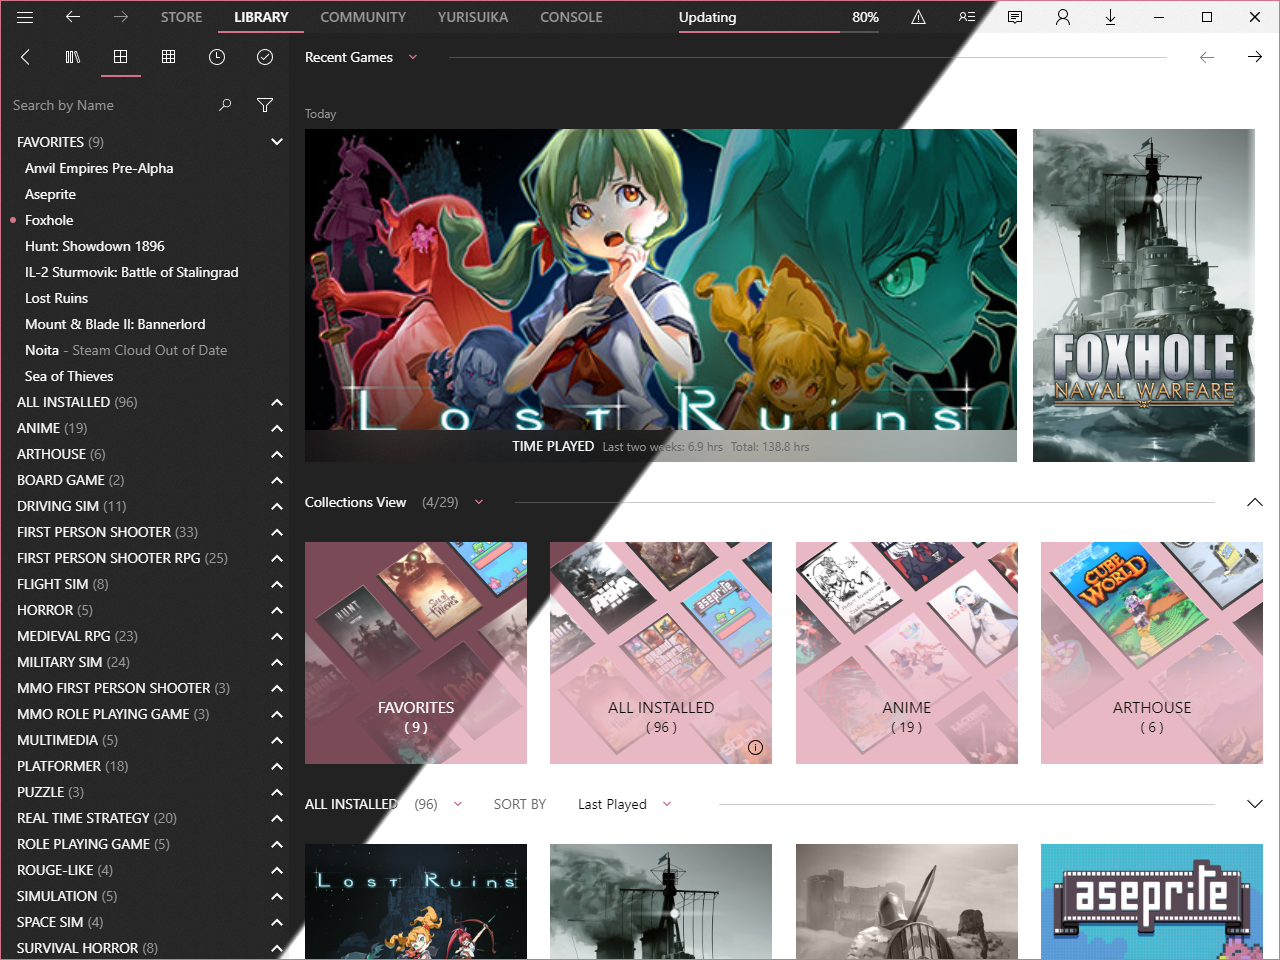
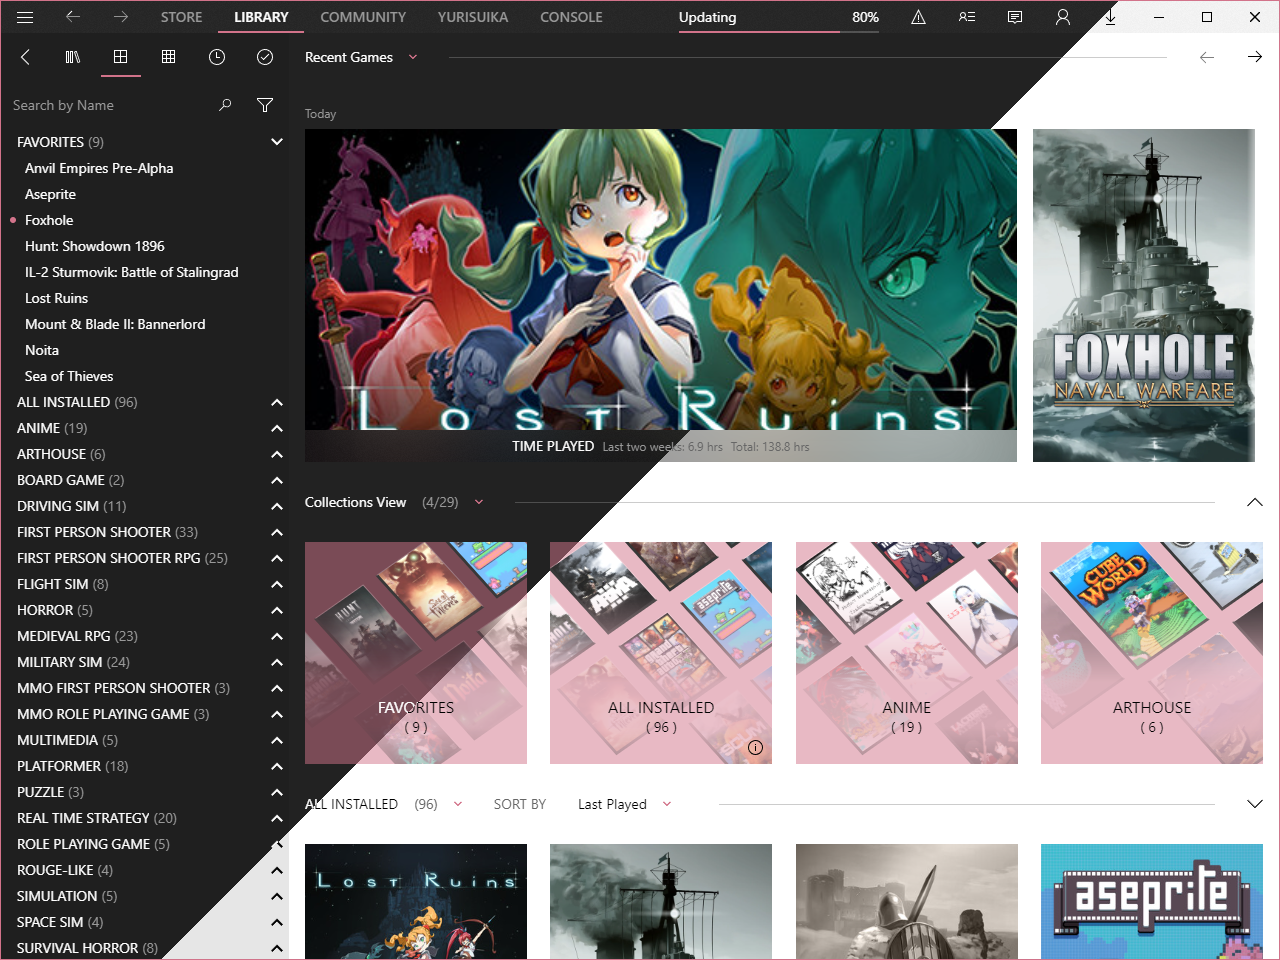
unified navbar background with sticky playbar + remove acyrlic from sidebar + what's new improvements

diff --git a/css/library/library.css b/css/library/library.css
@@ -102,6 +102,7 @@
 
 .B-vCdL38RiJlhfSRgZv78._278jFDApipeB4kFsi44_F5:hover ._3Rb_j3lgHaVVIud4Gla7_m, .gpfocus > .B-vCdL38RiJlhfSRgZv78._278jFDApipeB4kFsi44_F5 ._3Rb_j3lgHaVVIud4Gla7_m {
   background-color: rgba(var(--color-accent), 0.5) !important;
+  /* backdrop-filter: blur(var(--option-blur-radius)) !important; */
 }
 
 .B-vCdL38RiJlhfSRgZv78._278jFDApipeB4kFsi44_F5:hover ._3Rb_j3lgHaVVIud4Gla7_m ._1vIlyxb5BAwKPUkOfO94qZ, .gpfocus > .B-vCdL38RiJlhfSRgZv78._278jFDApipeB4kFsi44_F5 ._3Rb_j3lgHaVVIud4Gla7_m ._1vIlyxb5BAwKPUkOfO94qZ {
@@ -114,6 +115,11 @@
   color: rgb(var(--color-text-primary)) !important;
   font-size: var(--size-14) !important;
   font-weight: 400 !important;
+}
+
+.B-vCdL38RiJlhfSRgZv78._278jFDApipeB4kFsi44_F5:hover ._1-W_ZQ4XyImc86SJFamGha, .gpfocus>.B-vCdL38RiJlhfSRgZv78._278jFDApipeB4kFsi44_F5 ._1-W_ZQ4XyImc86SJFamGha {
+  transform: scale(1.05) !important;
+  filter: blur(5px) brightness(1) !important;
 }
 
 ._3_xMyCJAh_Dv99KgZ54P3j {
@@ -209,6 +215,25 @@
   text-align: center !important;
 }
 
+.B-vCdL38RiJlhfSRgZv78 ._3Rb_j3lgHaVVIud4Gla7_m, .B-vCdL38RiJlhfSRgZv78._278jFDApipeB4kFsi44_F5 {
+  transition: background-color 0.2s ease-in-out, filter 0.2 ease-in-out !important;
+}
+
+.B-vCdL38RiJlhfSRgZv78 ._1-W_ZQ4XyImc86SJFamGha {
+  transition: transform 0.2s ease-out, filter 0.2s ease-out !important;
+}
+
+.B-vCdL38RiJlhfSRgZv78 ._1vIlyxb5BAwKPUkOfO94qZ {
+  margin: 16px 16px 0px 16px !important;
+  transition: transform 0.2s ease-out, filter 0.2s ease-out !important;
+}
+
+.B-vCdL38RiJlhfSRgZv78 ._3XsLynGyI82XQfWQ8FBuOT {
+  margin: 16px !important;
+  line-height: 20px !important;
+  transition: transform 0.2s ease-out, filter 0.2s ease-out !important;
+}
+
 /* WHAT'S NEW EVENT OPTIONS BUTTON */
 ._2-p7shAZYrRijpaTU9bAFR {
   padding: 0px !important;
@@ -264,7 +289,7 @@
   background-size: 16px !important;
   background-repeat: no-repeat !important;
   background-position: center !important;
-  background-image: var(--icon-settings) !important;
+  background-image: var(--icon-more) !important;
 }
 
 ._1eFe5VbyACJE4RVGpOWKMC svg * {
@@ -296,11 +321,11 @@
   filter: var(--filter-focus) !important;
 }
 
-._23SnllqT_AqZ1C_QHcNQ4Z .bsNegRKT1Hbv4tqHrOk9- ._14b-hQsLwSwYcELtknxCUX:not(._16nHYucq6xgfe67DrVWLCI):hover, ._23SnllqT_AqZ1C_QHcNQ4Z .bsNegRKT1Hbv4tqHrOk9- ._3IIEUTw03Vm3Mk54jlnUaT:not(._16nHYucq6xgfe67DrVWLCI):hover {
+._17uEBe5Ri8TMsnfELvs8-N .bsNegRKT1Hbv4tqHrOk9- ._14b-hQsLwSwYcELtknxCUX:not(._16nHYucq6xgfe67DrVWLCI):hover, ._17uEBe5Ri8TMsnfELvs8-N .bsNegRKT1Hbv4tqHrOk9- ._3IIEUTw03Vm3Mk54jlnUaT:not(._16nHYucq6xgfe67DrVWLCI):hover {
   background-color: var(--option-reveal-background-hover) !important;
 }
 
-._23SnllqT_AqZ1C_QHcNQ4Z .bsNegRKT1Hbv4tqHrOk9- ._14b-hQsLwSwYcELtknxCUX:not(._16nHYucq6xgfe67DrVWLCI):active, ._23SnllqT_AqZ1C_QHcNQ4Z .bsNegRKT1Hbv4tqHrOk9- ._3IIEUTw03Vm3Mk54jlnUaT:not(._16nHYucq6xgfe67DrVWLCI):active {
+._17uEBe5Ri8TMsnfELvs8-N .bsNegRKT1Hbv4tqHrOk9- ._14b-hQsLwSwYcELtknxCUX:not(._16nHYucq6xgfe67DrVWLCI):active, ._17uEBe5Ri8TMsnfELvs8-N .bsNegRKT1Hbv4tqHrOk9- ._3IIEUTw03Vm3Mk54jlnUaT:not(._16nHYucq6xgfe67DrVWLCI):active {
   background-color: var(--option-reveal-background-active) !important;
 }
 

diff --git a/css/library/game.css b/css/library/game.css
@@ -204,11 +204,17 @@
   top: 32px !important;
 }
 
-._3Yf8b2v5oOD8Wqsxu04ar, .WindowFocus ._3Yf8b2v5oOD8Wqsxu04ar._39RheXihcN6H2k2muQTjkI {
-  background-color: var(--color-acrylic-overlay-medium) !important;
+._3Yf8b2v5oOD8Wqsxu04ar {
+  background-color: var(--color-acrylic-focus-window) !important;
   backdrop-filter: blur(var(--option-blur-radius)) !important;
   background-blend-mode: exclusion !important;
   background-image: var(--image-acrylic) !important;
+  z-index: 999 !important;
+}
+
+.WindowFocus ._3Yf8b2v5oOD8Wqsxu04ar._39RheXihcN6H2k2muQTjkI {
+  background: transparent !important;
+  backdrop-filter: none !important;
   z-index: 999 !important;
 }
 
@@ -229,6 +235,10 @@
   opacity: 1 !important;
   background-image: var(--image-acrylic) !important;
   transition: opacity 0.2s ease-in-out !important;
+}
+
+._3Yf8b2v5oOD8Wqsxu04ar._39RheXihcN6H2k2muQTjkI::after {
+  background: transparent !important;
 }
 
 ._3Yf8b2v5oOD8Wqsxu04ar._39RheXihcN6H2k2muQTjkI::after {
@@ -1190,9 +1200,9 @@ button.DialogButton._1qG6xUlNu-qvdhpSxwed5:active {
 }
 
 .WindowFocus ._27RcNu8aXKBpYkHcNNrt-X ._11kuVRYZvWXn-3rBJ_6yL8 > div {
-  background: var(--color-acrylic-focus-window) !important;
-  backdrop-filter: blur(var(--option-blur-radius)) !important;
-  background-blend-mode: exclusion !important;
+  /* background: var(--color-acrylic-focus-window) !important; */
+  /* backdrop-filter: blur(var(--option-blur-radius)) !important; */
+  /* background-blend-mode: exclusion !important; */
 }
 
 ._27RcNu8aXKBpYkHcNNrt-X ._11kuVRYZvWXn-3rBJ_6yL8 > div::after {
@@ -1204,7 +1214,7 @@ button.DialogButton._1qG6xUlNu-qvdhpSxwed5:active {
   left: 0 !important;
   right: 0 !important;
   opacity: 0 !important;
-  background-image: var(--image-acrylic) !important;
+  /* background-image: var(--image-acrylic) !important; */
   transition: opacity 0.2s ease-in-out !important;
 }
 
@@ -1636,9 +1646,9 @@ button.DialogButton._1qG6xUlNu-qvdhpSxwed5:active {
 }
 
 .WindowFocus ._2r4TK4BAuU-J4FuF_O7v_5._3-V8vjmrwuJM6Ws3tsjFJj {
-  background: var(--color-acrylic-focus-window) !important;
+  /* background: var(--color-acrylic-focus-window) !important; */
   /* backdrop-filter: blur(var(--option-blur-radius)) !important; */
-  background-blend-mode: exclusion !important;
+  /* background-blend-mode: exclusion !important; */
 }
 
 ._2r4TK4BAuU-J4FuF_O7v_5._3-V8vjmrwuJM6Ws3tsjFJj::after {
@@ -1650,7 +1660,7 @@ button.DialogButton._1qG6xUlNu-qvdhpSxwed5:active {
   left: 0 !important;
   right: 0 !important;
   opacity: 0 !important;
-  background-image: var(--image-acrylic) !important;
+  /* background-image: var(--image-acrylic) !important; */
   transition: opacity 0.2s ease-in-out !important;
 }
 

diff --git a/css/library/sidebar.css b/css/library/sidebar.css
@@ -89,27 +89,27 @@
 }
 
 /* GAMES LIST CONTAINER */
-._3x1HklzyDs4TEjACrRO2tB {
-  background-image: url() !important;
-  background-color: transparent !important;
-  background: transparent !important;
-}
-
 ._9sPoVBFyE_vE87mnZJ5aB {
-  background: var(--color-acrylic) !important;
-  transition: background 0.2s ease-in-out, backdrop-filter 0.2s ease-in-out, width 0.2s ease-in-out, min-width 0.2s ease-in-out, max-width 0.2s ease-in-out, visibility 0.2s ease-in-out !important;
+  /* background: rgb(var(--color-background-window)) !important; */
+  background: transparent !important;
   max-width: calc(max(50%, 100% - (48px * 6))) !important;
   min-width: calc(48px * 6) !important;
   z-index: 999 !important;
 }
 
-.WindowFocus ._9sPoVBFyE_vE87mnZJ5aB {
-  background-color: var(--color-acrylic-focus-window) !important;
+._3x1HklzyDs4TEjACrRO2tB {
+  /* background: var(--color-acrylic) !important; */
+  background: transparent !important;
+  transition: background 0.2s ease-in-out, backdrop-filter 0.2s ease-in-out, width 0.2s ease-in-out, min-width 0.2s ease-in-out, max-width 0.2s ease-in-out, visibility 0.2s ease-in-out !important;
+}
+
+.WindowFocus ._3x1HklzyDs4TEjACrRO2tB {
+  /* background-color: var(--color-acrylic-focus-window) !important; */
   /* backdrop-filter: blur(var(--option-blur-radius)) !important; */
   background-blend-mode: exclusion !important;
 }
 
-._9sPoVBFyE_vE87mnZJ5aB::after {
+._3x1HklzyDs4TEjACrRO2tB::after {
   content: "" !important;
   z-index: -1 !important;
   position: absolute !important;
@@ -118,17 +118,25 @@
   left: 0 !important;
   right: 0 !important;
   opacity: 0 !important;
-  background-image: var(--image-acrylic) !important;
+  /* background-image: var(--image-acrylic) !important; */
   transition: opacity 0.2s ease-in-out !important;
 }
 
-.WindowFocus ._9sPoVBFyE_vE87mnZJ5aB::after {
+.WindowFocus ._3x1HklzyDs4TEjACrRO2tB::after {
   opacity: 1 !important;
 }
 
 .Linux ._9sPoVBFyE_vE87mnZJ5aB {
   max-width: calc(max(50%, 100% - (48px * 8))) !important;
   min-width: calc(48px * 7) !important;
+}
+
+._3mz8wQ6Q44B8P7pzPP4Iyw:has(._3Yf8b2v5oOD8Wqsxu04ar._39RheXihcN6H2k2muQTjkI) ._1ZS_xta5HMXzR8JgxDH6n7 {
+  background: transparent !important;
+}
+
+._20QAC4WMXm8qFE8waUT5oo, ._1ijTaXJJA5YWl_fW2IxcaT, ._1ZS_xta5HMXzR8JgxDH6n7 {
+  background: var(--color-acrylic) !important;
 }
 
 /* GAMES LIST HOME */
@@ -599,7 +607,7 @@
   font-size: var(--size-14) !important;
   font-weight: 400 !important;
   gap: 0px !important;
-  background: transparent !important;
+  /* background: transparent !important; */
   border-radius: 0px !important;
 }
 

diff --git a/css/settings/whatsnew.css b/css/settings/whatsnew.css
@@ -34,7 +34,7 @@
 }
 
 ._DialogInputContainer ._3Hf53stS1-9flruoPqwO0O, .DialogLabel._3Hf53stS1-9flruoPqwO0O {
-  color: rgb(var(--color-text-secondary)) !important;
+  color: rgb(var(--color-text-primary)) !important;
   font-weight: 400 !important;
   font-size: var(--size-14) !important;
   line-height: 16px !important;
@@ -90,6 +90,21 @@
 .VwcCoDMU0ROCpRAJ_cXTx ._3XBggeqHxK4fIrbu_ULi1y svg line {
   stroke-width: 26px !important;
   display: none !important;
+}
+
+/* BLATHER */
+.DialogLabel._DialogLayout.fyxt0H7Cwfirf9908slPp._3Hf53stS1-9flruoPqwO0O {
+  display: none !important;
+}
+
+/* SECTIONS */
+._1n-sV5GdQis4Wh9XN3GJ7L > .DialogLabel._DialogLayout:not(.fyxt0H7Cwfirf9908slPp) {
+  color: rgb(var(--color-text-primary)) !important;
+  font-weight: 400 !important;
+  font-size: var(--size-20) !important;
+  text-transform: none !important;
+  margin-right: 0px !important;
+  line-height: 32px !important;
 }
 
 /* VISIBILITY SETTINGS */

diff --git a/css/settings/settings.css b/css/settings/settings.css
@@ -512,6 +512,9 @@
 ._3aB-C2eTsfVtvZR5sC9N_r.DialogButton {
   margin-top: auto !important;
   margin-bottom: auto !important;
+  position: absolute !important;
+  right: 0px;
+  top: 0px !important;
 }
 
 ._3aB-C2eTsfVtvZR5sC9N_r svg {
@@ -532,10 +535,14 @@
   font-weight: 400 !important;
 }
 
+.BRmrC-jnwpXqye4oYB21C.DesktopUI, .DesktopUI .BRmrC-jnwpXqye4oYB21C {
+  font-size: var(--size-14) !important;
+}
+
 .DialogToggleField._DialogInputContainer._DialogLayout {
   display: flex !important;
   flex-direction: column !important;
-  gap: 0px !important;
+  gap: 8px !important;
 }
 
 .alignSelfCenter {
@@ -1885,7 +1892,7 @@ div._1IsPTEXf7ua_4XbMa3sXyW svg {
 
 /* RECORDING BETA */
 ._20ZzHxTmtWU8kWGA6YqWfa {
-  backdrop-filter: blur(var(--option-blur-radius)) opacity(100%) saturate(0) brightness(0.5) !important;
+  backdrop-filter: blur(5px) opacity(100%) saturate(0) brightness(0.5) !important;
 }
 
 ._1TV2TLk7RNa3PqD1_WKqfs {

diff --git a/css/library/navigation.css b/css/library/navigation.css
@@ -12,6 +12,10 @@
   transition: background 0.2s ease-in-out, backdrop-filter 0.2s ease-in-out !important;
 }
 
+._3mz8wQ6Q44B8P7pzPP4Iyw:has(._3Yf8b2v5oOD8Wqsxu04ar._39RheXihcN6H2k2muQTjkI) ._3Z7VQ1IMk4E3HsHvrkLNgo {
+  height: calc(32px + 48px) !important;
+}
+
 .WindowFocus ._3Z7VQ1IMk4E3HsHvrkLNgo {
   background-color: var(--color-acrylic-focus-window) !important;
   backdrop-filter: blur(var(--option-blur-radius)) !important;

diff --git a/css/library/overlay.css b/css/library/overlay.css
@@ -1,6 +1,6 @@
 /* EVENT OVERLAY */
 ._37MAYpIjl0IDA1xVhhsuX8 ._19eb8NMS53lqZR33su0kTr {
-  backdrop-filter: blur(var(--option-blur-radius)) opacity(100%) saturate(0) brightness(0.5) !important;
+  backdrop-filter: blur(5px) opacity(100%) saturate(0) brightness(0.5) !important;
 }
 
 /* EVENT OVERLAY CONTROLS */
